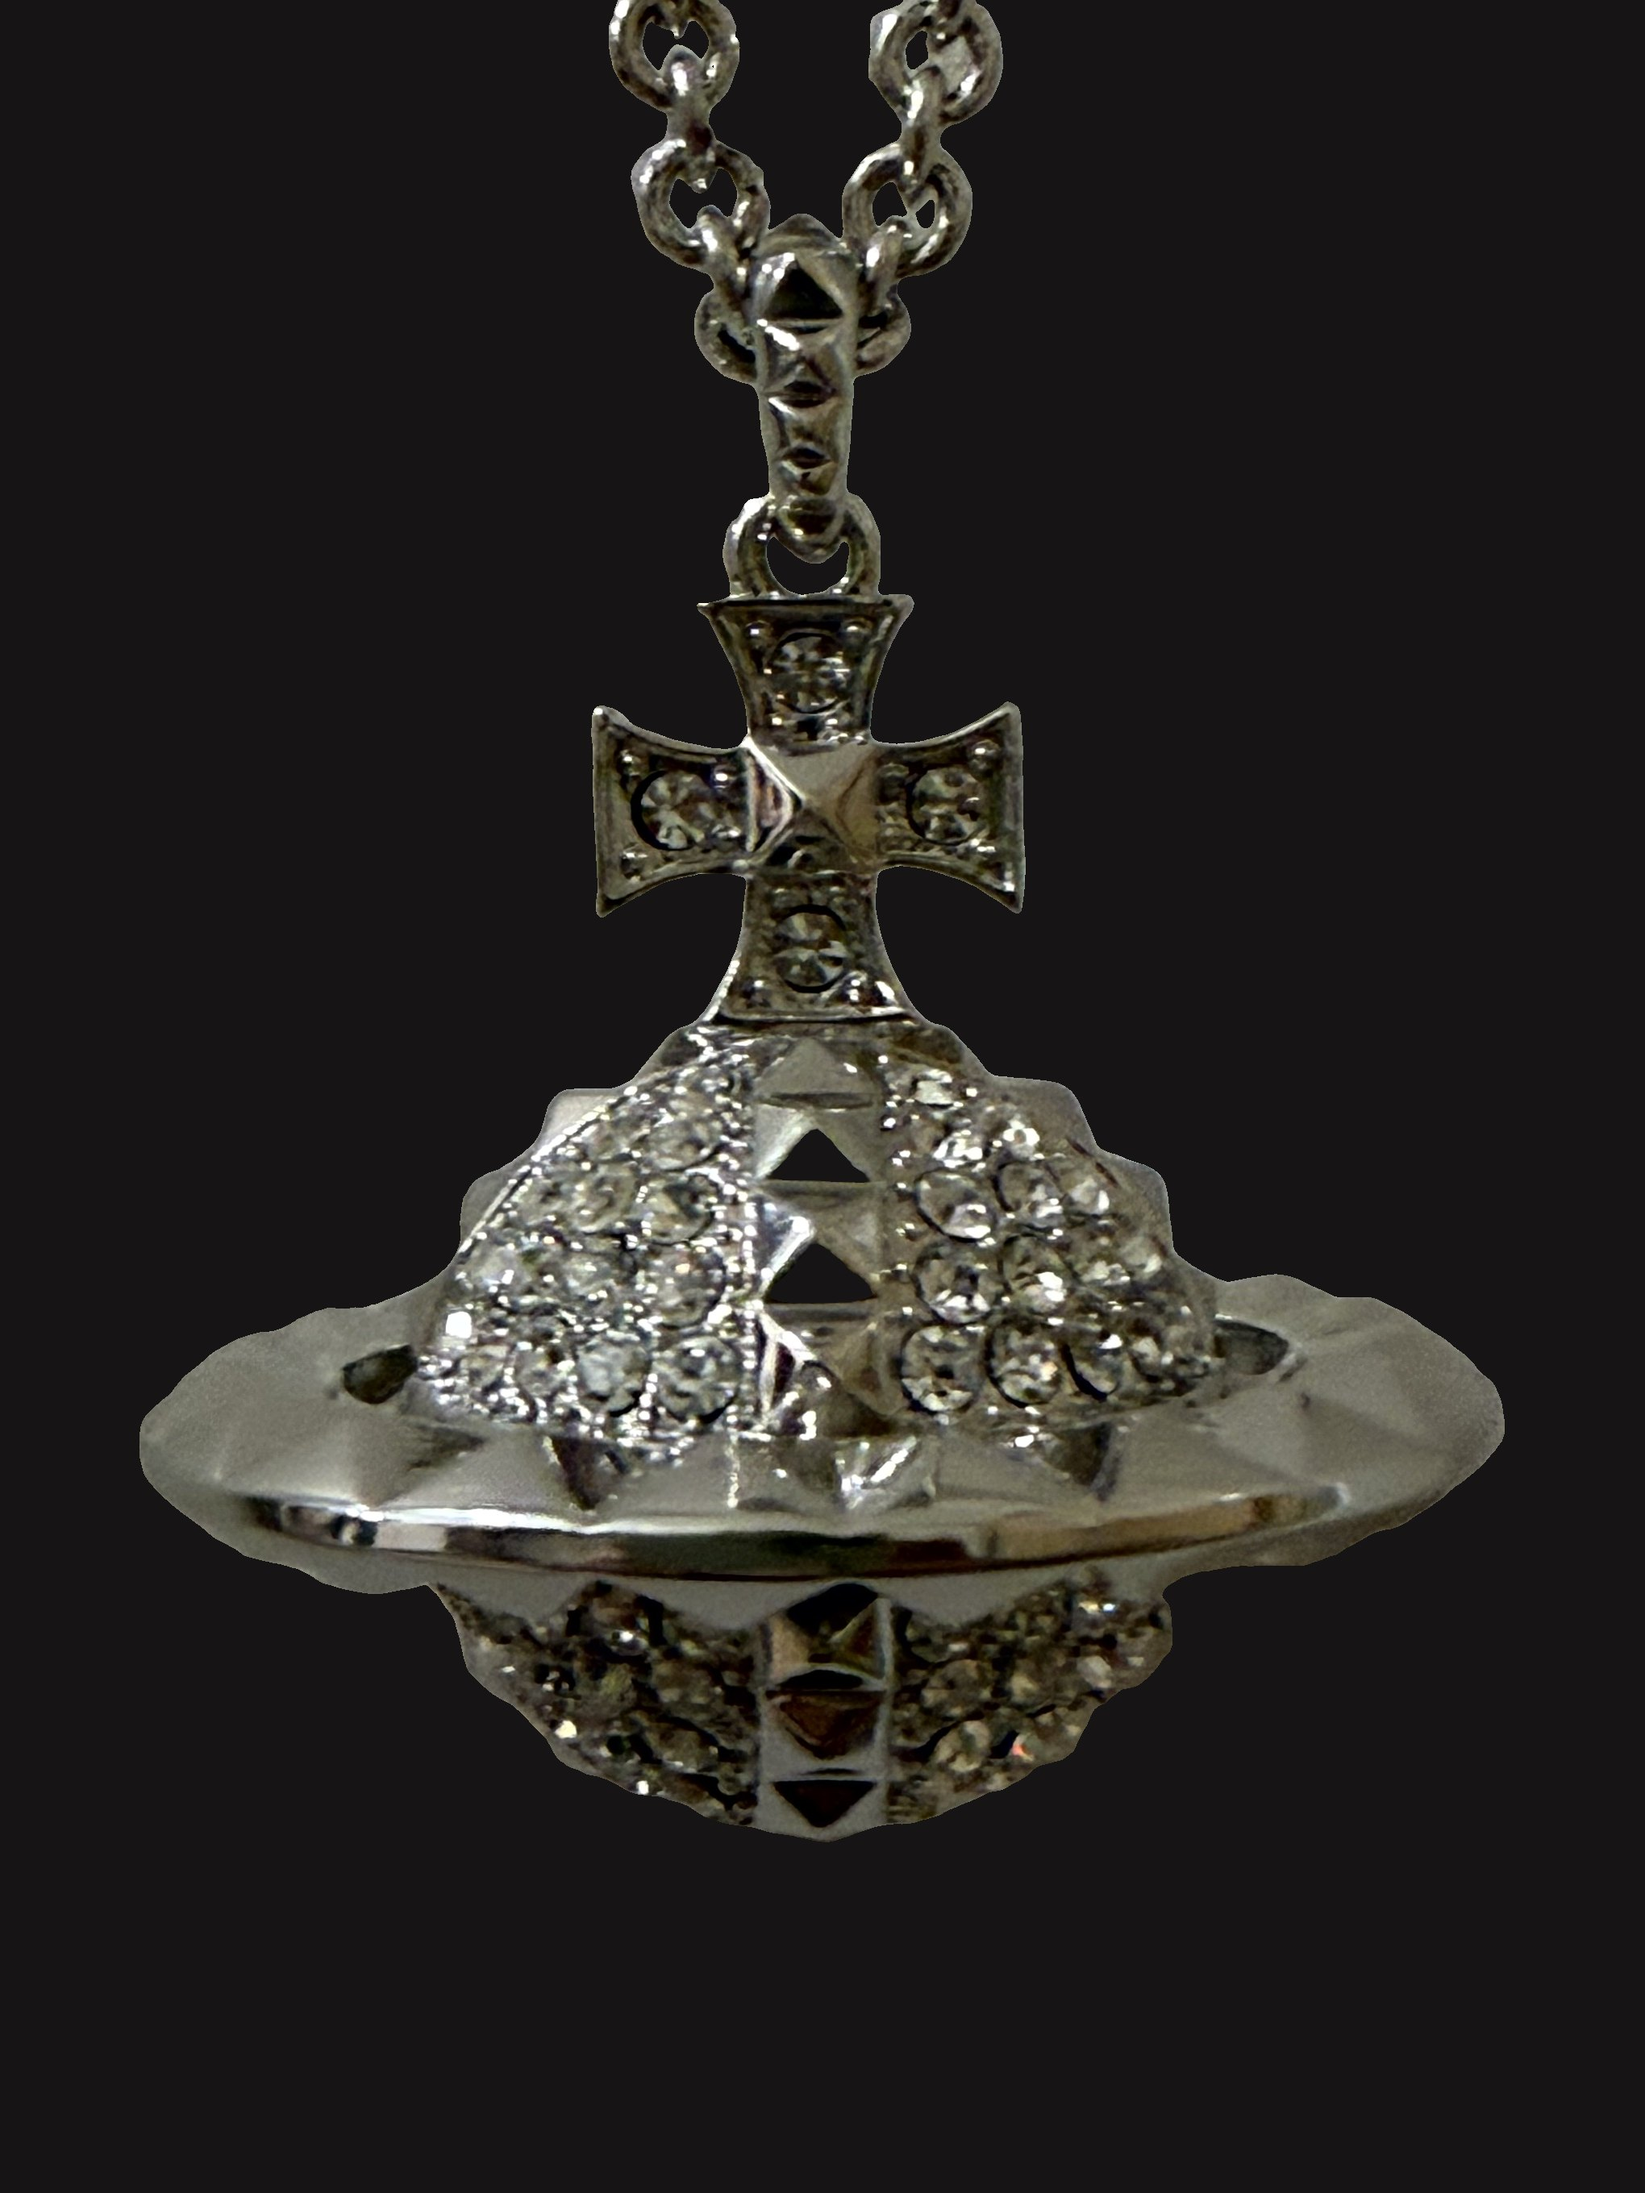
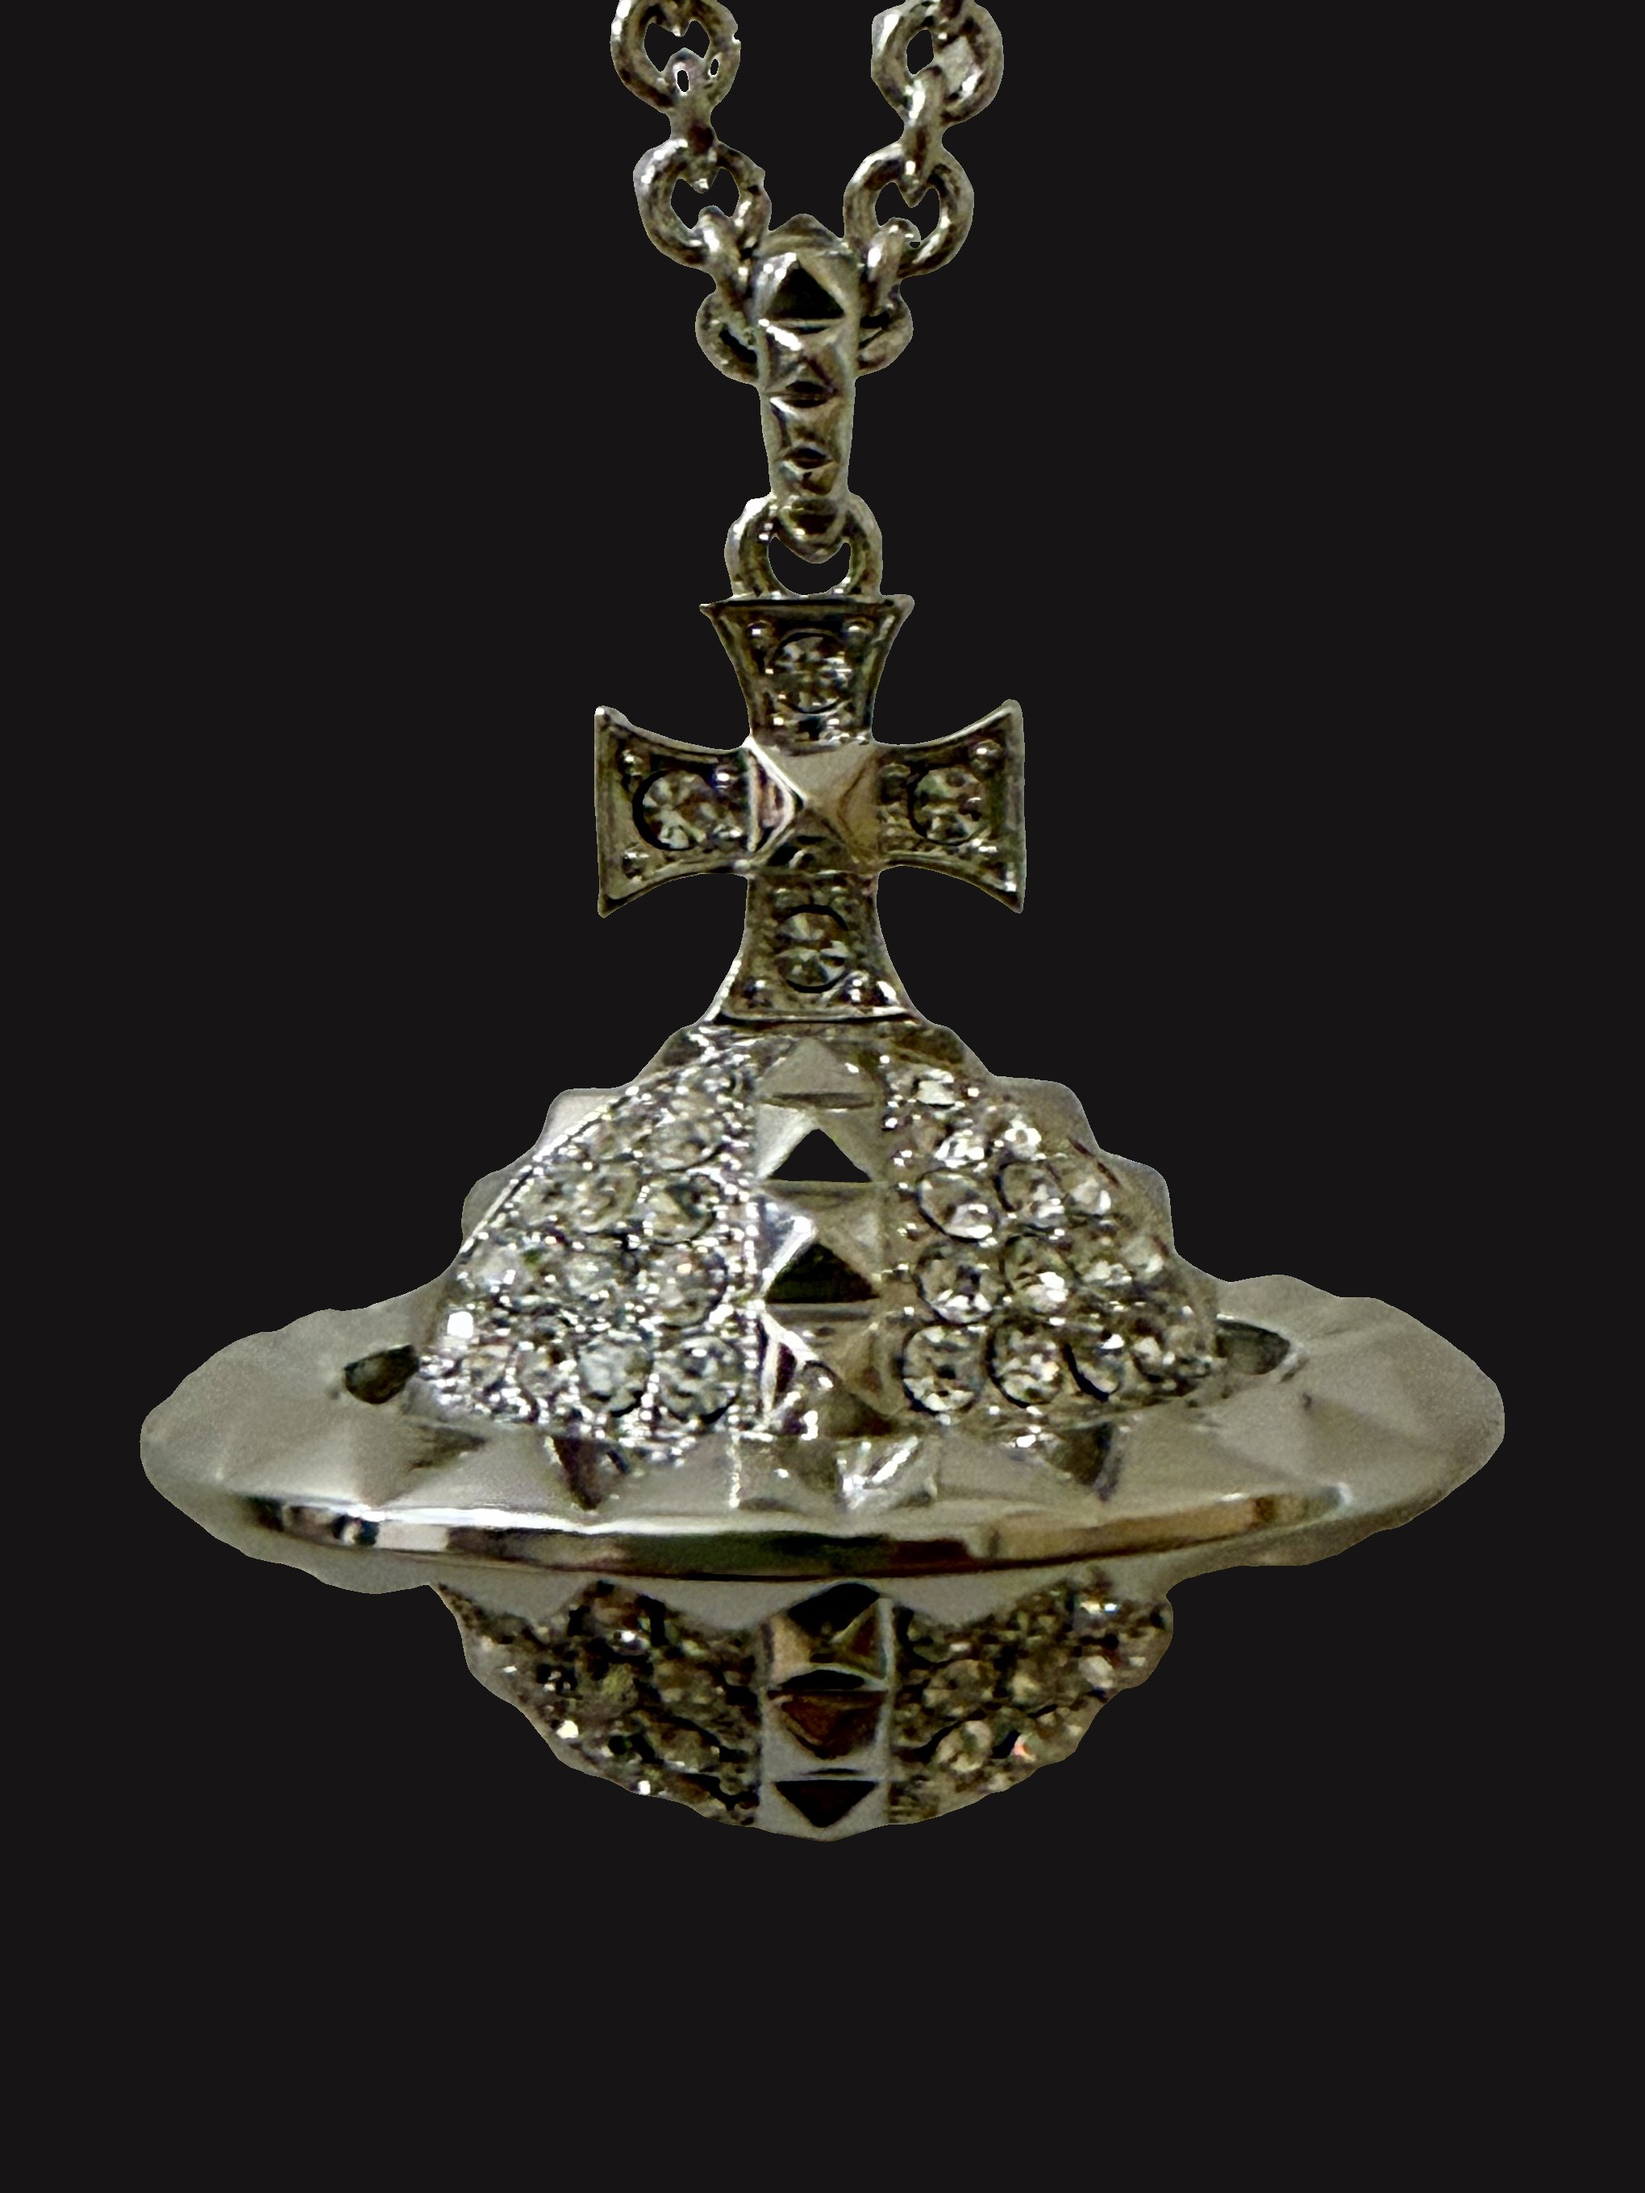
t029 换用新正面照并重做抠图
首版卖家照移入 _archive。

Claude-Session: https://claude.ai/code/session_0146WwfpqSoST3wS5kAsYEcA

diff --git a/_notes/站点手册.md b/_notes/站点手册.md
@@ -139,7 +139,7 @@
 - 默认：抠出器物，置于浅灰米 `#E3DED4`（2026 年 10 月由暖白 `#F3F0E8` 改定：暖白与白卡片明度差过小，图片边界消失；奶油色因与镀金同色相否决），居中，占画幅 84%，加淡投影，亮度做温和归一，不改色相。
 - 盒内或盒上拍摄的照片保留原背景，只裁两侧、补纯背景至 3:4，不镜像内容：t003、t014、t015、t016、t019、t021、t022、t026、t027。
 - t014 伊莎贝拉正面与反面 c006b 于 2026 年 10 月以红呢盒底新照（1932×2576）重拍。曾试做浅灰米底抠图版，策展人决定不要，两张都按盒内照片保留红呢原底直接使用（`t014_standard`、`c006b_standard` 即原照缩放）；抠图版与去晕边代码均已移除，仓库中不留副本。旧照 `t014_v1.jpg`、`c006b_v1.jpg` 存于 `_archive/`。
-- 浅色与银质器物置于黑底 `#161414`：r009 巴尔曼、t029 西太后宝球项链（2026 年 10 月入馆，卖家正面照抠图）、t005 已删除；t018 保留原黑底照片。链条在原照中出画的吊坠（`TOP_ALIGN`，目前 t029）贴画面顶边放置，让链条从顶边进入而不是断在底色里。判定依据：器物边缘与暖白底明度差，边缘中 20% 以上贴近底色者改黑底。
+- 浅色与银质器物置于黑底 `#161414`：r009 巴尔曼、t029 西太后宝球项链（2026 年 10 月入馆，策展人正面照抠图；首版卖家照存 `_archive/treasures/t029_v1.jpg`）、t005 已删除；t018 保留原黑底照片。链条在原照中出画的吊坠（`TOP_ALIGN`，目前 t029）贴画面顶边放置，让链条从顶边进入而不是断在底色里。判定依据：器物边缘与暖白底明度差，边缘中 20% 以上贴近底色者改黑底。
 - 深色底上不加投影。
 - 全站不按类别用不同底色（酒红、深灰方案已试做并否决）。
 
